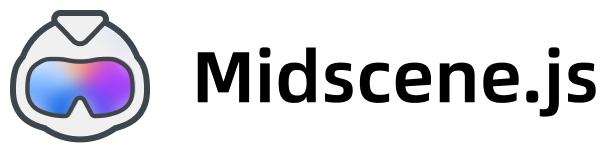
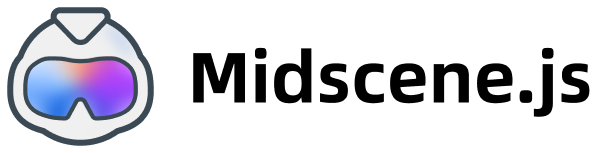
docs(core): dark mode for document (#1211)
* docs(core): normalize all titles in document

* docs(core): update faq and rspress config

* docs(core): update logo and darkmode switch

* docs(core): update rspress config

* docs(core): update rspress config

diff --git a/apps/site/rspress.config.ts b/apps/site/rspress.config.ts
@@ -12,11 +12,10 @@ export default defineConfig({
   icon: '/midscene-icon.png',
   logo: {
     light: '/midscene_with_text_light.png',
-    dark: '/midscene_with_text_light.png',
+    dark: '/midscene_with_text_dark.png',
   },
   themeConfig: {
     lastUpdated: true,
-    darkMode: false,
     socialLinks: [
       {
         icon: 'github',
@@ -110,11 +109,11 @@ export default defineConfig({
               link: '/mcp-android',
             },
             {
-              text: 'Quick Experience by Android Playground',
+              text: 'Quick Experience with Android',
               link: '/quick-experience-with-android',
             },
             {
-              text: 'Integrate with Android(adb)',
+              text: 'Integrate with Android (adb)',
               link: '/integrate-with-android',
             },
           ],
@@ -153,7 +152,7 @@ export default defineConfig({
           text: 'More',
           items: [
             {
-              text: 'Integrate with Any Interface (Preview)',
+              text: 'Integrate with any interface (preview)',
               link: '/integrate-with-any-interface',
             },
             {
@@ -165,7 +164,7 @@ export default defineConfig({
               link: '/faq',
             },
             {
-              text: 'LLMs.txt',
+              text: 'LLMs.txt Documentation',
               link: '/llm-txt',
             },
             {
@@ -286,7 +285,7 @@ export default defineConfig({
           text: '更多',
           items: [
             {
-              text: '与任何界面集成（预览特性 ）',
+              text: '与任意界面集成（预览特性）',
               link: '/zh/integrate-with-any-interface',
             },
             {
@@ -298,7 +297,7 @@ export default defineConfig({
               link: '/zh/faq',
             },
             {
-              text: 'LLMs.txt',
+              text: 'LLMs.txt 文档',
               link: '/zh/llm-txt',
             },
             {

diff --git a/apps/site/styles/index.css b/apps/site/styles/index.css
@@ -1,8 +1,3 @@
 .rspress-logo {
   height: 2.6rem;
 }
-:root {
-  --rp-c-text-1: #0b140f;
-}
-
-/* Footer styles */

diff --git a/apps/site/docs/zh/faq.md b/apps/site/docs/zh/faq.md
@@ -1,4 +1,4 @@
-# FAQ
+# 常见问题 FAQ
 
 ## Midscene 能否根据一句话指令实现智能规划？比如执行 "发一条微博"
 
